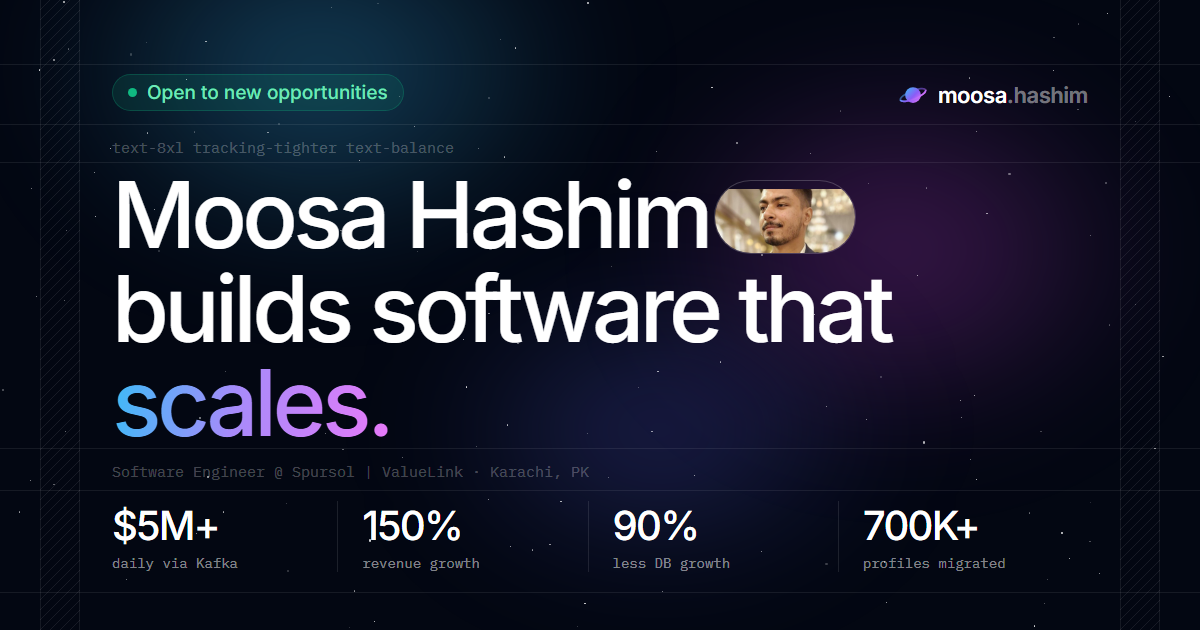
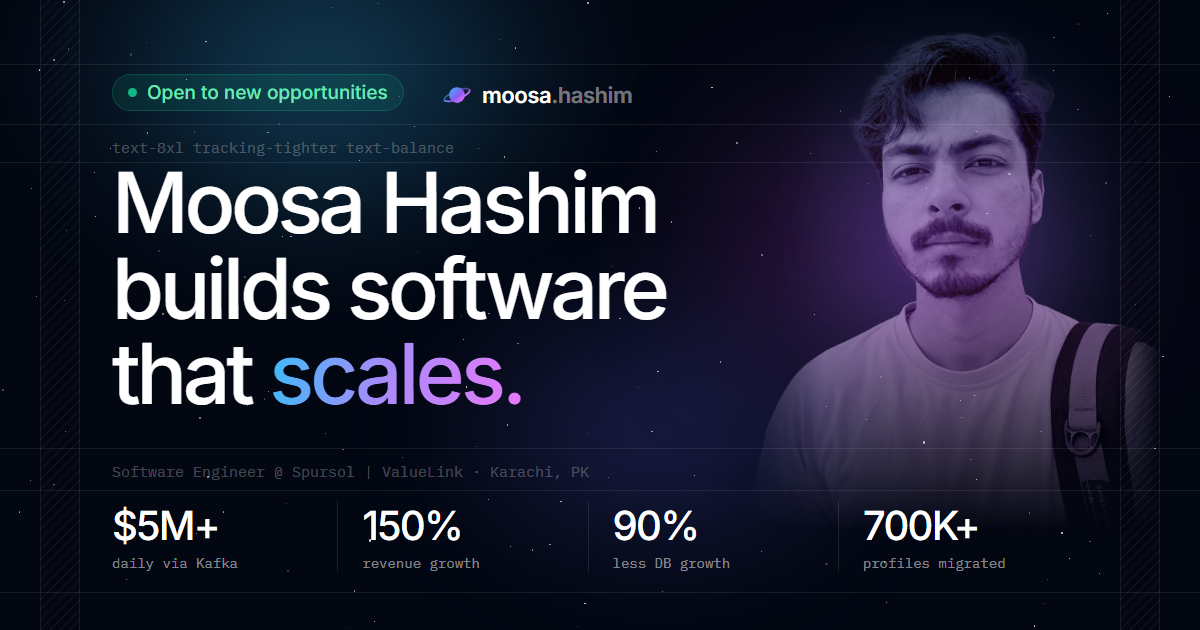
Hero: full portrait behind the headline, fix clipped descenders
- Replace the inline photo pill with a large grayscale cutout on the
  right, faded into the background with a rim glow and subtle tint;
  headline and copy float above it, portrait drifts and fades on scroll
- Extend the rotating word's clip and gradient paint box below the
  baseline so descenders (j, y, p, g) are no longer cut off
- Update the Open Graph image to match

Changed region(s): [[0.0925, 0.0302, 0.9558, 0.7841], [0.37, 0.1206, 0.5242, 0.181]]

diff --git a/src/sections/Hero.jsx b/src/sections/Hero.jsx
@@ -1,7 +1,7 @@
-import { useEffect, useState } from "react";
-import { AnimatePresence, motion } from "framer-motion";
+import { useEffect, useRef, useState } from "react";
+import { AnimatePresence, motion, useReducedMotion, useScroll, useTransform } from "framer-motion";
 import { ArrowDown, ArrowRight, Copy } from "lucide-react";
-import portrait from "../assets/images/moosa-portrait.jpg";
+import cutout from "../assets/images/moosa-cutout.webp";
 import { Annotation, CountUp } from "../components/ui";
 import { btnPrimary, btnSecondary } from "../lib/styles";
 import { cn } from "../lib/cn";
@@ -39,8 +39,10 @@ function RotatingWord() {
     return () => clearInterval(id);
   }, []);
 
+  // The clip box and the gradient's paint box both extend below the baseline
+  // (pb + matching -mb) so descenders like j / y / g aren't cut off.
   return (
-    <span className="relative block h-[1.12em] overflow-hidden pb-[0.12em]">
+    <span className="relative block overflow-hidden pb-[0.22em]">
       <span className="sr-only">{heroWords[0]}</span>
       <AnimatePresence mode="popLayout" initial={false}>
         <motion.span
@@ -50,7 +52,7 @@ function RotatingWord() {
           animate={{ y: "0%", opacity: 1, filter: "blur(0px)" }}
           exit={{ y: "-90%", opacity: 0, filter: "blur(10px)" }}
           transition={{ duration: 0.7, ease }}
-          className="text-gradient inline-block animate-shimmer"
+          className="text-gradient -mb-[0.22em] inline-block animate-shimmer pr-[0.08em] pb-[0.22em]"
         >
           {heroWords[index]}
         </motion.span>
@@ -59,23 +61,46 @@ function RotatingWord() {
   );
 }
 
-function PhotoPill() {
+// Large grayscale cutout that sits behind the hero copy, faded into space.
+function Portrait({ progress }) {
+  const reduce = useReducedMotion();
+  const y = useTransform(progress, [0, 1], [0, 160]);
+  const opacity = useTransform(progress, [0, 0.85], [1, 0.1]);
+
   return (
-    <motion.span
-      initial={{ width: 0, opacity: 0 }}
-      animate={{ width: "1.55em", opacity: 1 }}
-      transition={{ delay: 0.5, duration: 0.9, ease }}
-      className="relative mx-[0.12em] inline-block h-[0.78em] -translate-y-[0.06em] overflow-hidden rounded-full align-middle ring-1 ring-gray-950/10 dark:ring-white/20"
+    <motion.div
+      aria-hidden="true"
+      style={reduce ? undefined : { y, opacity }}
+      className="pointer-events-none absolute -z-[5] aspect-[1086/1448] max-lg:top-4 max-lg:-right-[16%] max-lg:h-[min(128vw,36rem)] lg:-right-10 lg:bottom-0 lg:h-[calc(100%+4.5rem)] xl:-right-6"
     >
-      <img
-        src={portrait}
-        alt="Portrait of Moosa Hashim"
-        width="800"
-        height="1000"
-        fetchPriority="high"
-        className="absolute inset-0 size-full object-cover object-[50%_32%]"
-      />
-    </motion.span>
+      <motion.div
+        initial={{ opacity: 0, scale: 1.06, filter: "blur(14px)" }}
+        animate={{ opacity: 1, scale: 1, filter: "blur(0px)" }}
+        transition={{ duration: 1.6, ease, delay: 0.2 }}
+        className="relative size-full"
+      >
+        {/* rim light behind the head */}
+        <div
+          className="absolute top-[4%] left-[12%] size-[76%] rounded-full opacity-70 blur-3xl dark:opacity-100"
+          style={{ background: "radial-gradient(closest-side, rgb(139 92 246 / 0.35), rgb(56 189 248 / 0.12) 60%, transparent)" }}
+        />
+        <div className="mask-portrait absolute inset-0 max-lg:opacity-55">
+          <img
+            src={cutout}
+            alt=""
+            width="1086"
+            height="1448"
+            fetchPriority="high"
+            className="size-full object-contain grayscale-100 contrast-110 brightness-[1.02] dark:brightness-[0.62]"
+          />
+          {/* faint violet/sky tint, clipped to the cutout's own alpha */}
+          <div
+            className="absolute inset-0 bg-gradient-to-br from-sky-400 via-violet-500 to-fuchsia-500 opacity-15 mix-blend-color dark:opacity-25"
+            style={{ maskImage: `url(${cutout})`, maskSize: "100% 100%", WebkitMaskImage: `url(${cutout})`, WebkitMaskSize: "100% 100%" }}
+          />
+        </div>
+      </motion.div>
+    </motion.div>
   );
 }
 
@@ -111,88 +136,94 @@ function MarqueeRow({ items, reverse }) {
 const statBorders = ["", "border-l", "max-lg:border-t lg:border-l", "border-l max-lg:border-t"];
 
 export default function Hero() {
+  const introRef = useRef(null);
+  const { scrollYProgress } = useScroll({ target: introRef, offset: ["start start", "end start"] });
+
   return (
     <section id="top" aria-label="Introduction" className="relative pt-6 sm:pt-10">
       <Aurora />
 
-      <motion.div
-        initial={{ opacity: 0, y: 12 }}
-        animate={{ opacity: 1, y: 0 }}
-        transition={{ duration: 0.8, ease }}
-        className="line-y flex flex-wrap items-center gap-x-4 gap-y-2 px-4 py-2 sm:px-2"
-      >
-        <span className="inline-flex items-center gap-2 rounded-full bg-emerald-500/10 px-3 py-1 text-sm/6 font-medium text-emerald-700 ring-1 ring-emerald-500/20 ring-inset dark:text-emerald-300">
-          <span className="relative flex size-2">
-            <span className="absolute inline-flex size-full animate-ping rounded-full bg-emerald-400 opacity-75" />
-            <span className="relative inline-flex size-2 rounded-full bg-emerald-500" />
+      <div ref={introRef} className="relative">
+        <Portrait progress={scrollYProgress} />
+
+        <motion.div
+          initial={{ opacity: 0, y: 12 }}
+          animate={{ opacity: 1, y: 0 }}
+          transition={{ duration: 0.8, ease }}
+          className="line-y flex flex-wrap items-center gap-x-4 gap-y-2 px-4 py-2 sm:px-2"
+        >
+          <span className="inline-flex items-center gap-2 rounded-full bg-emerald-500/10 px-3 py-1 text-sm/6 font-medium text-emerald-700 ring-1 ring-emerald-500/20 ring-inset dark:text-emerald-300">
+            <span className="relative flex size-2">
+              <span className="absolute inline-flex size-full animate-ping rounded-full bg-emerald-400 opacity-75" />
+              <span className="relative inline-flex size-2 rounded-full bg-emerald-500" />
+            </span>
+            Open to new opportunities
           </span>
-          Open to new opportunities
-        </span>
-        <span className="font-mono text-xs/6 text-gray-500">
-          {profile.role} @ {profile.company} · {profile.location}
-        </span>
-      </motion.div>
+          <span className="font-mono text-xs/6 text-gray-500">
+            {profile.role} @ {profile.company} · {profile.location}
+          </span>
+        </motion.div>
 
-      <Annotation>text-5xl tracking-tighter text-balance lg:text-8xl</Annotation>
+        <Annotation>text-5xl tracking-tighter text-balance lg:text-8xl</Annotation>
 
-      <motion.h1
-        initial={{ opacity: 0, y: 24, filter: "blur(12px)" }}
-        animate={{ opacity: 1, y: 0, filter: "blur(0px)" }}
-        transition={{ duration: 1, ease, delay: 0.1 }}
-        className="line-y px-4 text-[2.6rem]/[1.08] tracking-tighter text-balance max-lg:font-medium sm:px-2 sm:text-6xl/[1.05] lg:text-7xl/[1.02] xl:text-8xl/[1]"
-      >
-        {profile.shortName}
-        <PhotoPill /> builds software that
-        <RotatingWord />
-      </motion.h1>
-
-      <Annotation>text-lg/8 text-gray-400 max-w-2xl</Annotation>
-
-      <motion.p
-        initial={{ opacity: 0, y: 16 }}
-        animate={{ opacity: 1, y: 0 }}
-        transition={{ duration: 0.9, ease, delay: 0.25 }}
-        className="line-y max-w-2xl px-4 text-lg/8 text-gray-600 sm:px-2 dark:text-gray-400"
-      >
-        Software engineer at <strong className="font-medium text-gray-950 dark:text-white">Spursol | ValueLink</strong>,
-        building AI-orchestrated workflows and .NET services for a multi-tenant real-estate platform. 3+ years across
-        banking integrations, fintech and SaaS — a new stack at every stop, shipped at every one.
-      </motion.p>
-
-      <Annotation />
-
-      <motion.div
-        initial={{ opacity: 0, y: 16 }}
-        animate={{ opacity: 1, y: 0 }}
-        transition={{ duration: 0.9, ease, delay: 0.35 }}
-        className="line-y flex flex-wrap items-center gap-3 px-4 py-3 sm:px-2"
-      >
-        <a
-          href="#contact"
-          onClick={(e) => {
-            e.preventDefault();
-            scrollToId("contact");
-          }}
-          className={cn(btnPrimary, "group")}
+        <motion.h1
+          initial={{ opacity: 0, y: 24, filter: "blur(12px)" }}
+          animate={{ opacity: 1, y: 0, filter: "blur(0px)" }}
+          transition={{ duration: 1, ease, delay: 0.1 }}
+          className="line-y px-4 text-[2.6rem]/[1.08] tracking-tighter text-balance max-lg:font-medium sm:px-2 sm:text-6xl/[1.05] lg:text-7xl/[1.02] xl:text-8xl/[1] dark:[text-shadow:0_2px_32px_rgb(3_7_18/0.55)]"
         >
-          Let's talk
-          <ArrowRight className="size-4 transition-transform group-hover:translate-x-0.5" />
-        </a>
-        <a href={profile.resume} download={profile.resumeFileName} className={cn(btnSecondary, "group")}>
-          Download résumé
-          <ArrowDown className="size-4 transition-transform group-hover:translate-y-0.5" />
-        </a>
-        <button
-          type="button"
-          onClick={copyEmail}
-          className="group hidden items-center gap-3 rounded-full py-2.5 pr-3 pl-4 font-mono text-[13px]/6 text-gray-500 transition hover:text-gray-950 sm:inline-flex dark:text-gray-400 dark:hover:text-white"
-          title="Copy email address"
+          {profile.shortName} builds software that
+          <RotatingWord />
+        </motion.h1>
+
+        <Annotation>text-lg/8 text-gray-400 max-w-2xl</Annotation>
+
+        <motion.p
+          initial={{ opacity: 0, y: 16 }}
+          animate={{ opacity: 1, y: 0 }}
+          transition={{ duration: 0.9, ease, delay: 0.25 }}
+          className="line-y max-w-2xl px-4 text-lg/8 text-gray-600 sm:px-2 dark:text-gray-300/90 dark:[text-shadow:0_1px_18px_rgb(3_7_18/0.8)]"
         >
-          <span className="text-sky-500 dark:text-sky-400">$</span>
-          {profile.email}
-          <Copy className="size-3.5 opacity-60 transition group-hover:opacity-100" />
-        </button>
-      </motion.div>
+          Software engineer at <strong className="font-medium text-gray-950 dark:text-white">Spursol | ValueLink</strong>,
+          building AI-orchestrated workflows and .NET services for a multi-tenant real-estate platform. 3+ years across
+          banking integrations, fintech and SaaS — a new stack at every stop, shipped at every one.
+        </motion.p>
+
+        <Annotation />
+
+        <motion.div
+          initial={{ opacity: 0, y: 16 }}
+          animate={{ opacity: 1, y: 0 }}
+          transition={{ duration: 0.9, ease, delay: 0.35 }}
+          className="line-y flex flex-wrap items-center gap-3 px-4 py-3 sm:px-2"
+        >
+          <a
+            href="#contact"
+            onClick={(e) => {
+              e.preventDefault();
+              scrollToId("contact");
+            }}
+            className={cn(btnPrimary, "group")}
+          >
+            Let's talk
+            <ArrowRight className="size-4 transition-transform group-hover:translate-x-0.5" />
+          </a>
+          <a href={profile.resume} download={profile.resumeFileName} className={cn(btnSecondary, "group")}>
+            Download résumé
+            <ArrowDown className="size-4 transition-transform group-hover:translate-y-0.5" />
+          </a>
+          <button
+            type="button"
+            onClick={copyEmail}
+            className="group hidden items-center gap-3 rounded-full py-2.5 pr-3 pl-4 font-mono text-[13px]/6 text-gray-500 transition hover:text-gray-950 sm:inline-flex dark:text-gray-400 dark:hover:text-white"
+            title="Copy email address"
+          >
+            <span className="text-sky-500 dark:text-sky-400">$</span>
+            {profile.email}
+            <Copy className="size-3.5 opacity-60 transition group-hover:opacity-100" />
+          </button>
+        </motion.div>
+      </div>
 
       {/* Impact at a glance */}
       <div className="line-y mt-10 grid grid-cols-2 sm:mt-14 lg:grid-cols-4">

diff --git a/src/index.css b/src/index.css
@@ -234,6 +234,14 @@
   mask-image: linear-gradient(to bottom, black 60%, transparent);
 }
 
+/* Fades the hero cutout into the background at the bottom and sides. */
+@utility mask-portrait {
+  mask-image: linear-gradient(to bottom, #000 48%, transparent 94%),
+    linear-gradient(to right, transparent, #000 20%, #000 85%, transparent);
+  mask-composite: intersect;
+  -webkit-mask-composite: source-in;
+}
+
 @utility scrollbar-none {
   scrollbar-width: none;
   &::-webkit-scrollbar {
